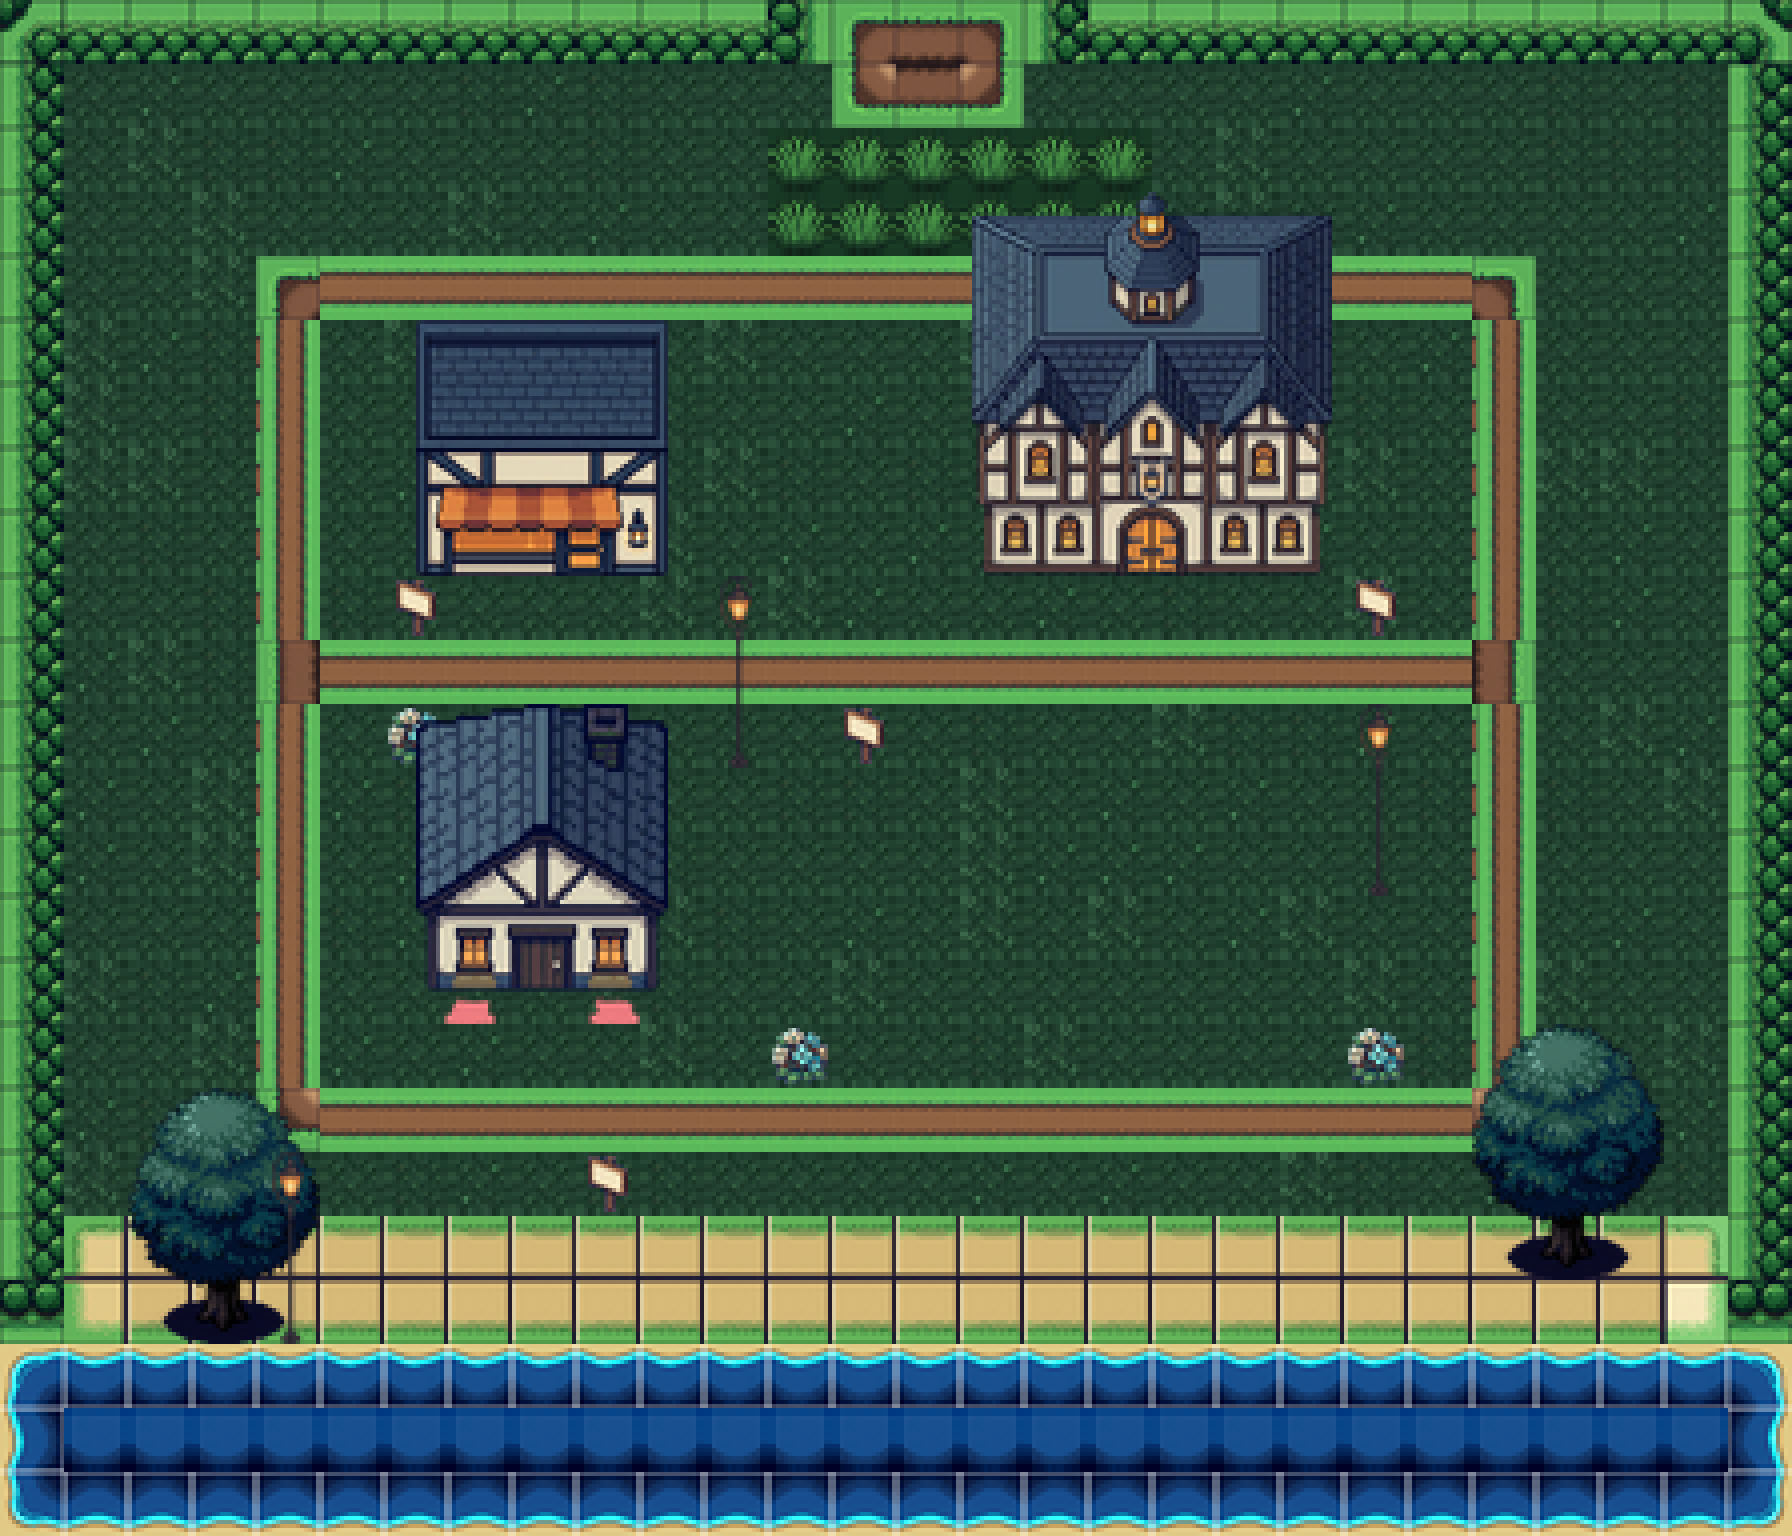
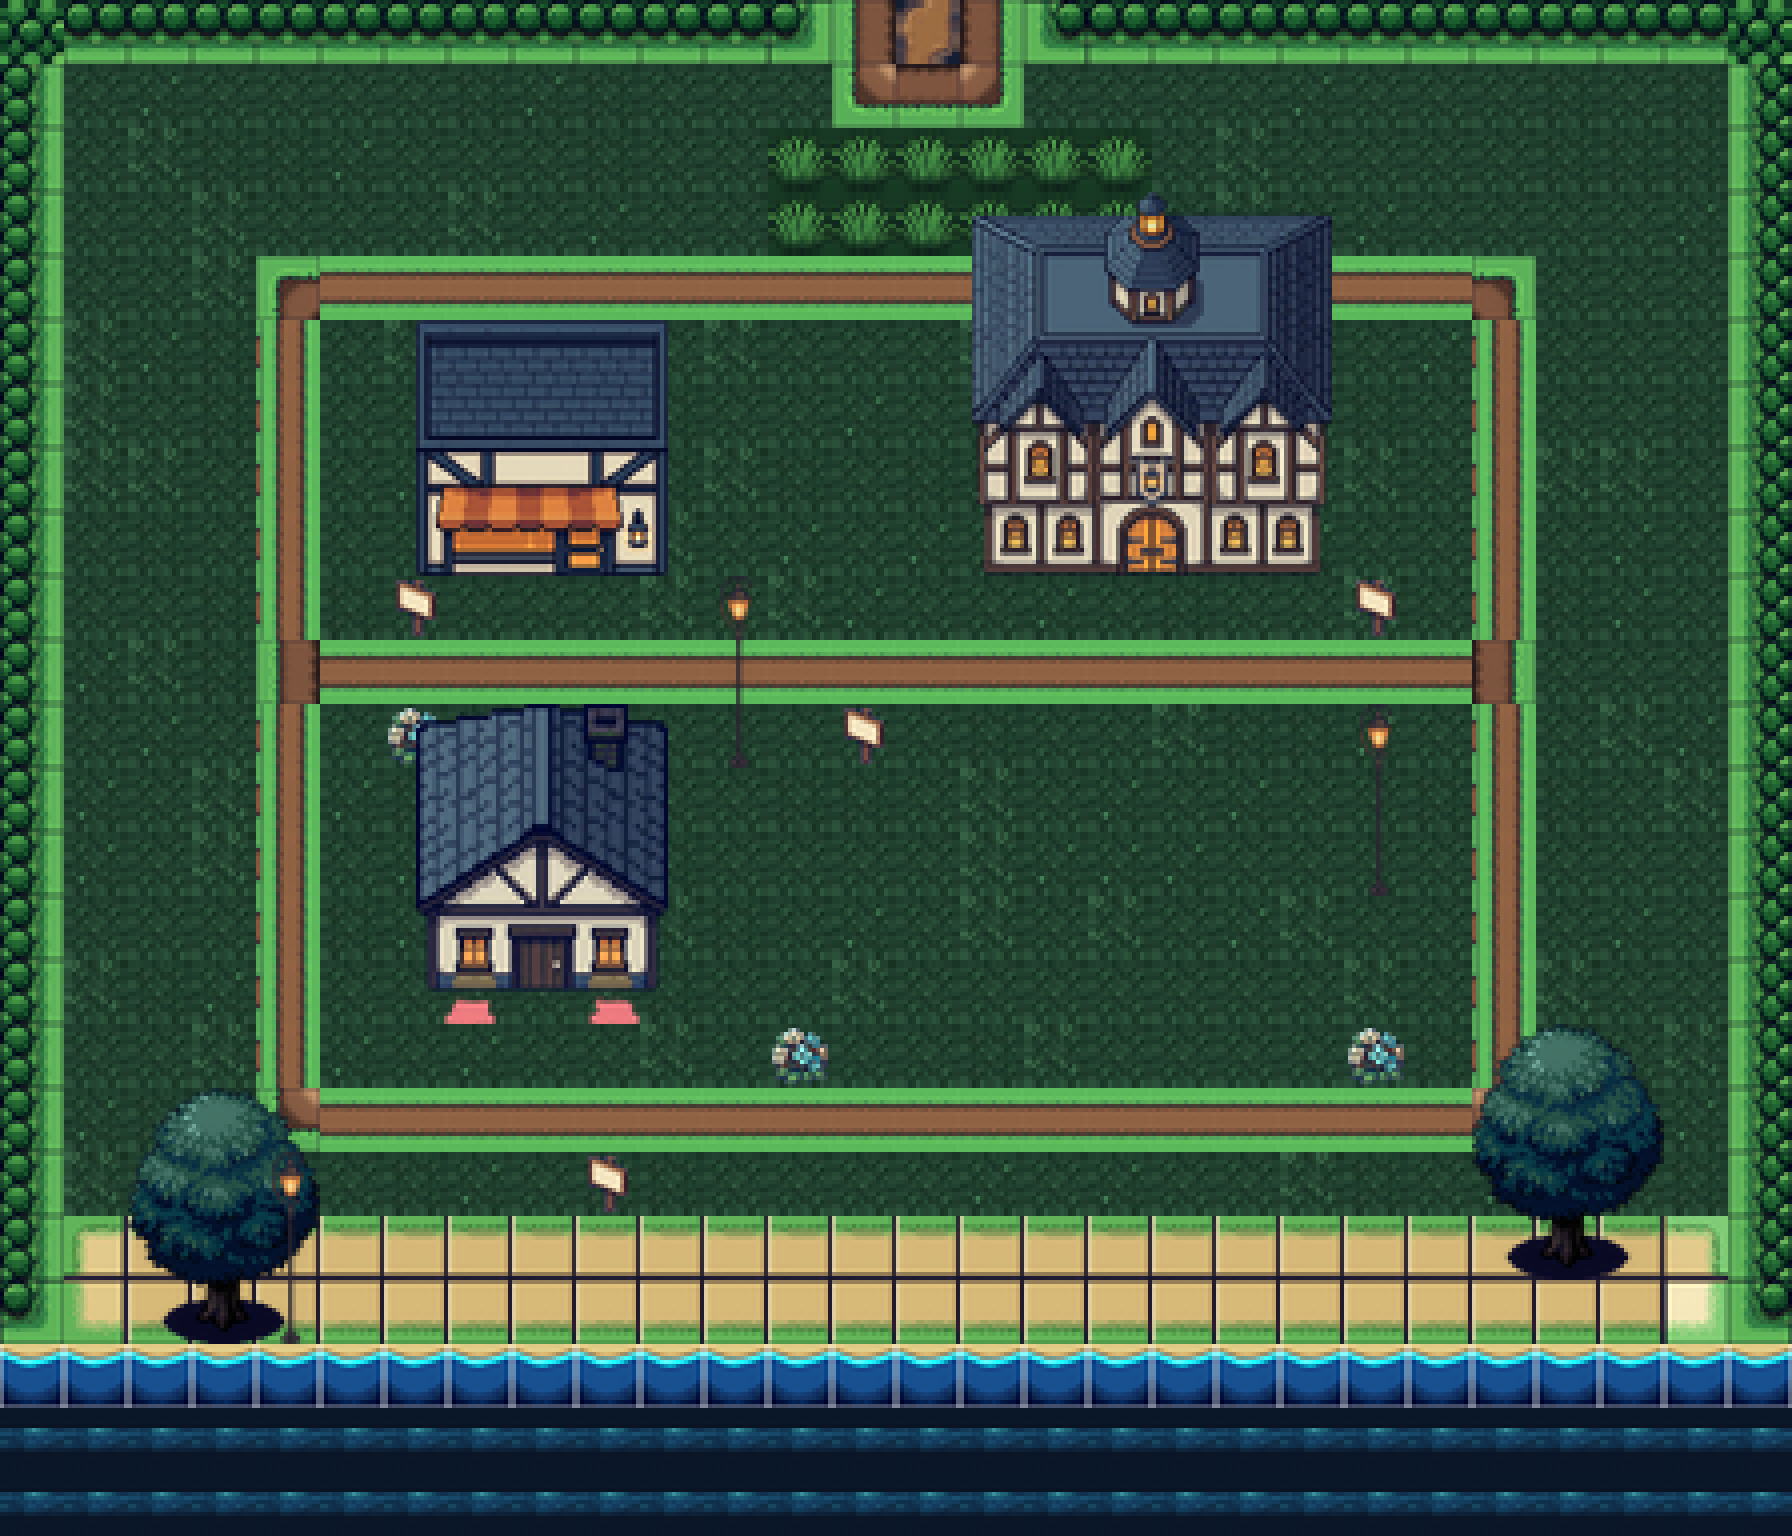
Autotile refinements: map-edge continuation + seamless fills
- Map edges now CONTINUE the terrain off-screen instead of drawing a spurious
  border: blob.neighbours treats out-of-bounds as same-terrain (edge:'continue'
  default; per-layer 'border' opt-out via expand). A cliff top / water / tall
  grass at the map edge runs off it. validate_map matches (off-map = continuation).
- Seamless fills: regenerated water (calm low-detail dusk, animated), path and
  sand fills as borderless low-contrast tiles + make_tileable, so large areas
  repeat without visible per-tile borders (the paths/water seam complaint).

Tinderwick re-meshed; validate_map PASS (0/0).

Changed region(s): [[0.0, 0.0, 1.0, 1.0]]

diff --git a/.claude/skills/generate-sprite-sheet/scripts/validate_map.py b/.claude/skills/generate-sprite-sheet/scripts/validate_map.py
@@ -133,7 +133,7 @@ def main() -> int:
         def terr(x: int, y: int):
             if 0 <= x < W and 0 <= y < H:
                 return meta(base[y * W + x]).get("terrain")
-            return None
+            return "__edge__"  # off-map = continuation (matches the autotiler), not a boundary
         raw_boundary = 0
         boundary_total = 0
         water_raw = 0
@@ -146,7 +146,8 @@ def main() -> int:
                 if meta(g).get("encounter_terrain") == "tall_grass":
                     continue  # tall-grass is a flat encounter patch, not a bordered surface
                 neigh = [terr(x, y - 1), terr(x + 1, y), terr(x, y + 1), terr(x - 1, y)]
-                if any(nb != t for nb in neigh):  # this cell is on a terrain boundary
+                # off-map (__edge__) is continuation, not a boundary
+                if any(nb != t and nb != "__edge__" for nb in neigh):
                     boundary_total += 1
                     role = meta(g).get("autotile")
                     if role not in EDGE_ROLES:  # boundary cell drawn with a non-edge tile
